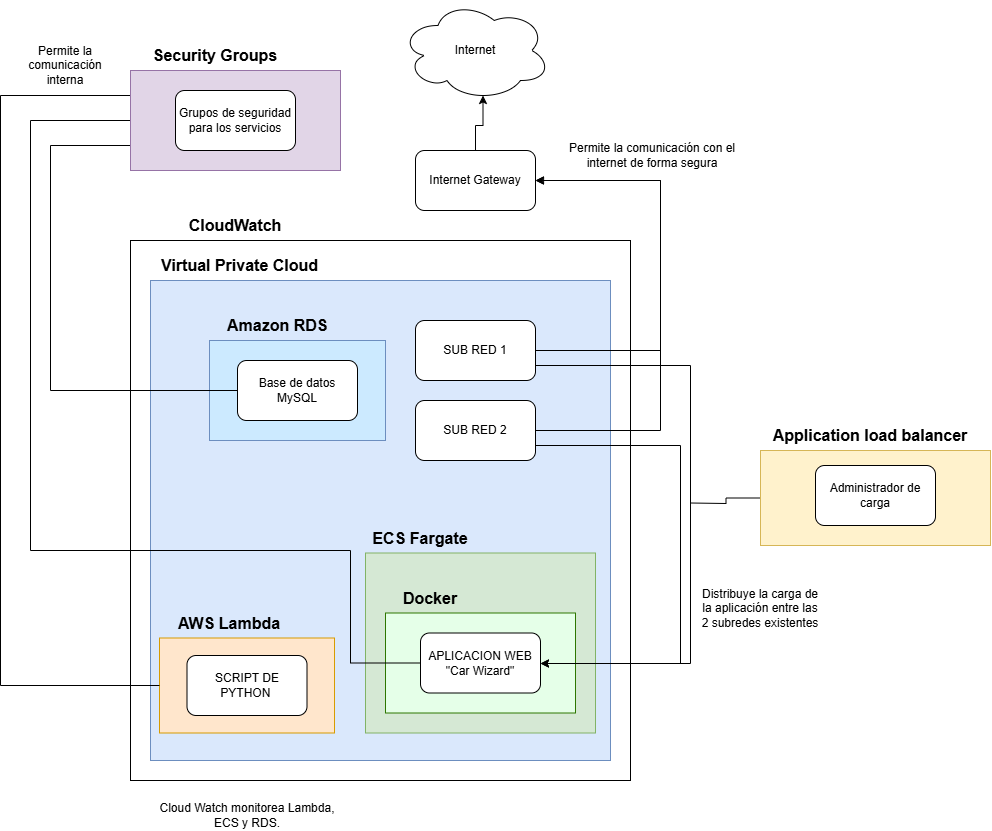
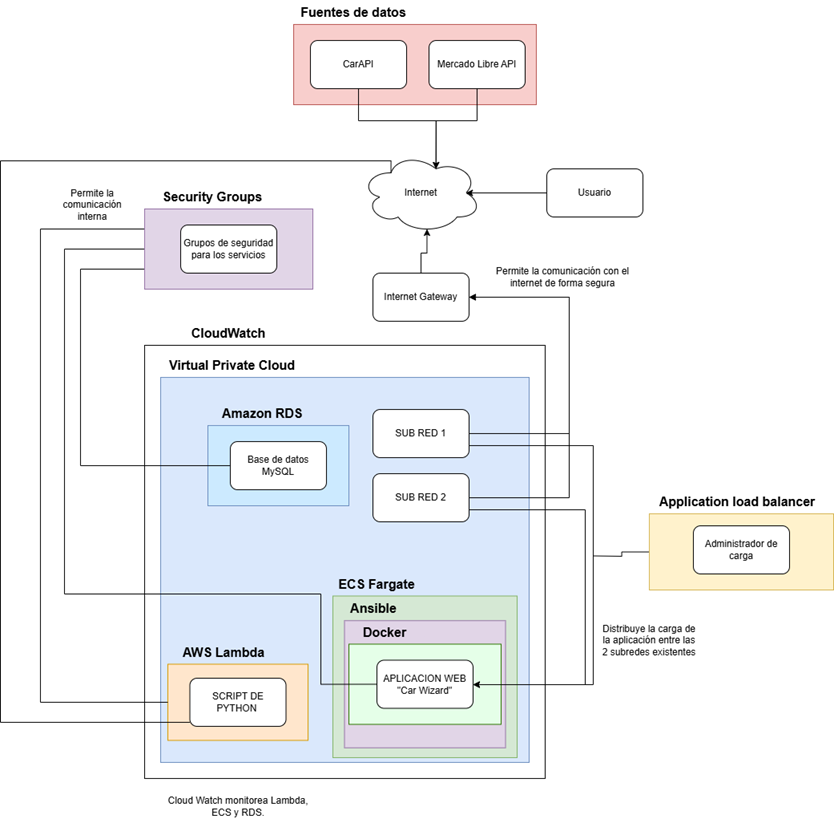
Cambios realizados a las redes y comunicaciones

diff --git a/README.md b/README.md
@@ -1,9 +1,9 @@
-# 🚗 CarWizard - Fase III: Ejecución
+# 🚗 CarWizard - Fase VI: Resultados
 
 **📌 Repositorio:** [CarWizard en GitHub](https://github.com/PabloDoria/Car-Wizard)
 
 ## 📖 Descripción
-CarWizard es una página web que permite consultar datos financieros, técnicos y propiedades de autos de marcas populares. Los usuarios pueden filtrar por marca, precio, financiamiento y consumo.
+CarWizard es una página web que permite consultar datos financieros, técnicos y propiedades de autos de marcas populares. Los usuarios pueden filtrar por marca, modelo y año.
 
 ## 🔧 Proceso de Desarrollo
 1. **Obtención de Datos:** Scripts en Python extraen y limpian datos de CAR API.
@@ -19,7 +19,7 @@ CarWizard es una página web que permite consultar datos financieros, técnicos 
 - **ECS Fargate:** Despliegue de contenedores sin servidores.
 - **ECR:** Almacenamiento de imágenes Docker.
 - **ALB (Application Load Balancer):** Balanceo de carga para ECS.
-- **RDS (MySQL):** Base de datos en Amazon RDS con acceso restringido.
+- **RDS (Microsoft SQL Server):** Base de datos en Amazon RDS con acceso restringido.
 - **AWS Lambda:** Procesamiento de datos con Python.
 - **CloudWatch:** Monitoreo y logging de la infraestructura.
 
@@ -52,4 +52,7 @@ CarWizard es una página web que permite consultar datos financieros, técnicos 
 
 
 ---
-🚀 **CarWizard busca diferenciarse mediante gráficos y visuales interpretativos que ayuden a los usuarios a tomar mejores decisiones al comprar un automóvil.**
+
+## 📌 Página web
+![CarWizard en ejecución](./CarWizardImage.png)
+![CarWizard emostrando datos](./CarWizardImage2.png)
